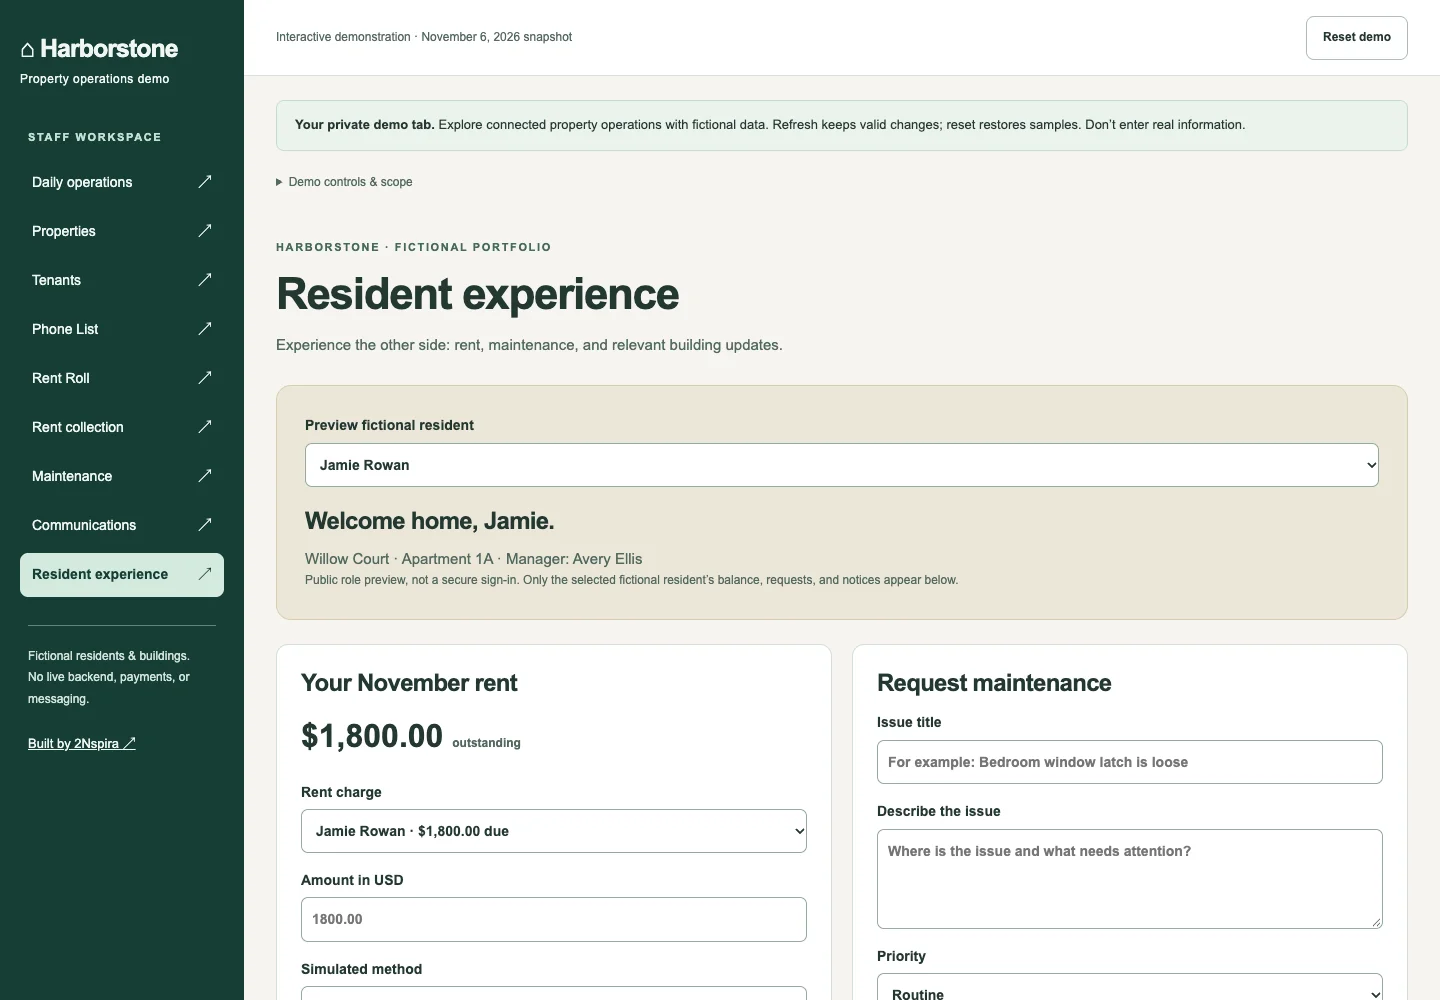
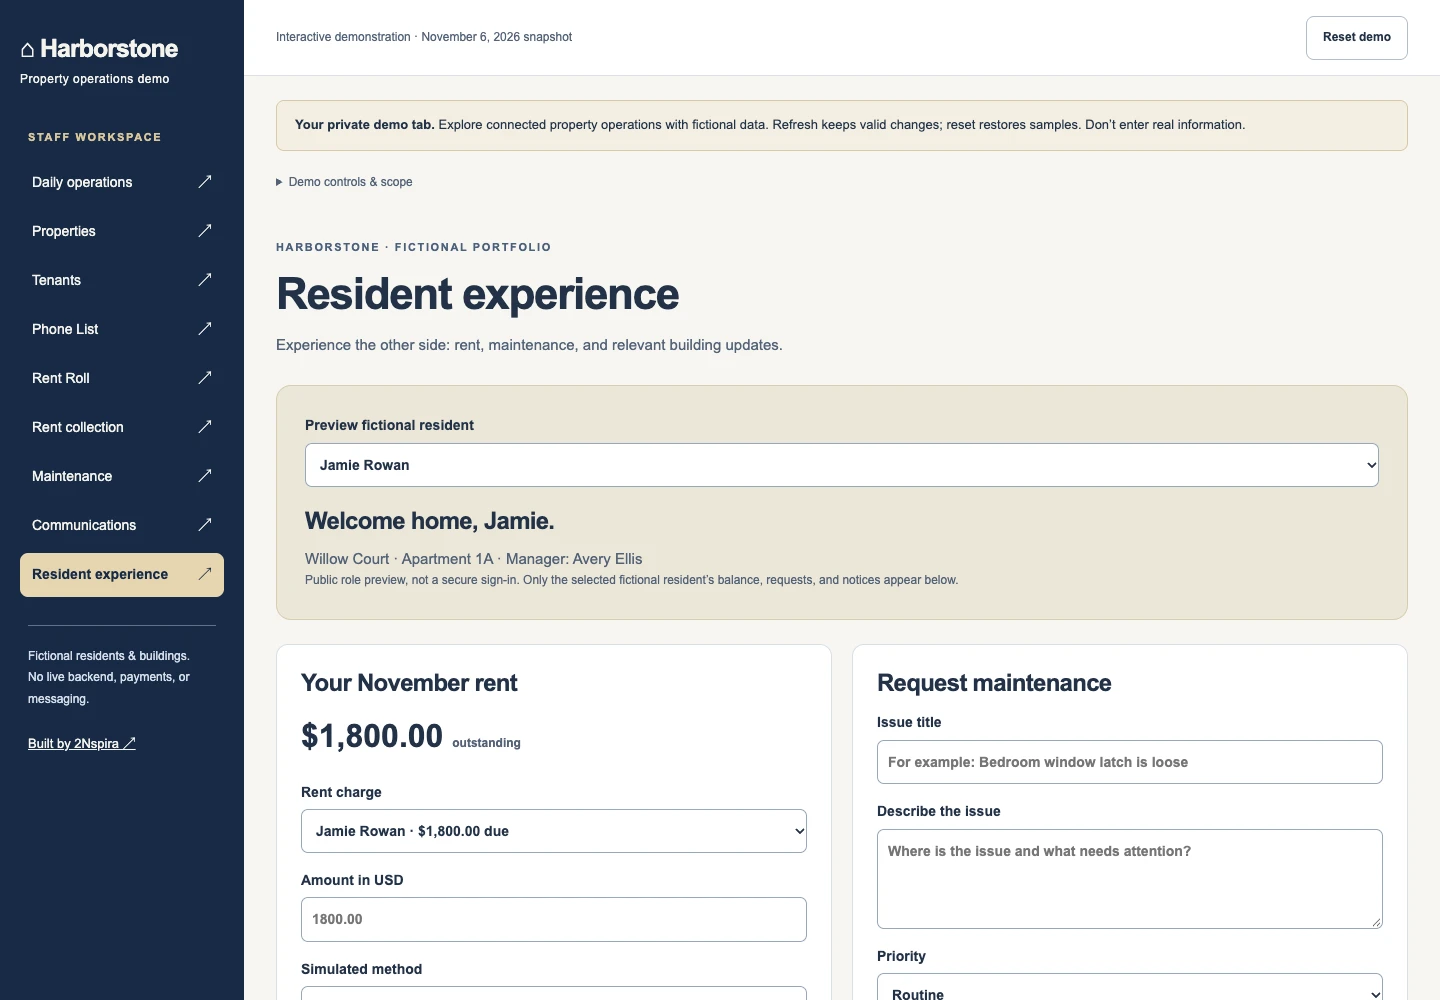
Refine demo identities and add accessible education page effects

diff --git a/2nspira-website/src/components/demos/SchoolVision.tsx b/2nspira-website/src/components/demos/SchoolVision.tsx
@@ -7,7 +7,7 @@ export default function SchoolVision() {
     <div className="mx-auto max-w-6xl px-4 sm:px-6">
       <div className="grid items-center gap-10 lg:grid-cols-2">
         <div><p className={eyebrow}>2Nspira · Connected school</p><h2 id="school-vision" className={`mt-4 ${h2}`}>More than managing school.<br />Make learning visible.</h2><p className="mt-5 leading-8 text-body">The office knows the learner. The teacher knows the next step. The family understands the progress. Explore a school experience built around those connections—not another collection of disconnected tools.</p><p className="mt-4 text-sm leading-7 text-muted">A focused demonstration for independent K–12 schools, with a broader vision shaped around your curriculum, people, and existing systems.</p><a href={EDUCATION_DEMO_URL} className={`mt-7 ${buttonPrimary}`}>Explore Demo <ArrowRight className="ml-2 h-4 w-4" /></a></div>
-        <div className="rounded-3xl border border-line bg-white p-6 shadow-sm sm:p-8">
+        <div data-catalog-card className="rounded-3xl border border-line bg-white p-6 shadow-sm sm:p-8">
           <p className="text-xs font-semibold tracking-widest text-accent">ILLUSTRATIVE LEARNING SNAPSHOT</p><div className="mt-5 flex items-center gap-4"><span className="rounded-2xl bg-accent-soft p-3 text-accent"><Sprout size={28}/></span><div><h3 className="text-xl font-medium text-ink">Small habitats. Big connections.</h3><p className="mt-1 text-sm text-muted">Science 7 · Learning Grove Academy</p></div></div>
           <ol className="mt-7 space-y-0">{[["Plan with purpose", "An inquiry question and clear learning goals."],["Make thinking visible", "Field notes become evidence of learning."],["Close the feedback loop", "Teacher-published feedback reaches the learner and family."]].map(([title,text],i)=><li key={title} className="flex gap-4 border-t border-line py-5"><span className="text-sm font-semibold text-accent">0{i+1}</span><div><h4 className="font-medium text-ink">{title}</h4><p className="mt-1 text-sm leading-6 text-body">{text}</p></div></li>)}</ol><p className="text-xs leading-6 text-muted">Fictional example. The demo connects real local actions; this preview is not live school data.</p>
         </div>

diff --git a/2nspira-website/src/components/demos/DemoDetail.tsx b/2nspira-website/src/components/demos/DemoDetail.tsx
@@ -1,4 +1,5 @@
 import DemoHero from "./DemoHero";
+import CatalogEffects from "@/components/catalog/CatalogEffects";
 import DemoTrust from "./DemoTrust";
 import SchoolVision from "./SchoolVision";
 import ManufacturingVision from "./ManufacturingVision";
@@ -25,6 +26,7 @@ export default function DemoDetail({ kind }: { kind: keyof typeof demos }) {
         href={demo.url}
         steps={["Welcome a learner", "Connect the classroom", "Share progress"]}
       />
+      <CatalogEffects headings>
       {kind === "education" && (
         <section className="border-y border-line bg-canvas-deep py-14">
           <div className="mx-auto max-w-6xl px-4 sm:px-6">
@@ -57,6 +59,7 @@ export default function DemoDetail({ kind }: { kind: keyof typeof demos }) {
                 ],
               ].map(([role, text], i) => (
                 <a
+                  data-catalog-card
                   href={`${demo.url}?role=${role}`}
                   key={role}
                   className={`${cardFlat} block p-6 focus-visible:outline-2 focus-visible:outline-accent ${["!bg-[#fff0d9]", "!bg-[#e0f4ef]", "!bg-[#efe4fa]", "!bg-[#fff1b8]"][i]}`}
@@ -135,7 +138,7 @@ export default function DemoDetail({ kind }: { kind: keyof typeof demos }) {
           </summary>
           <ol className="mt-6 grid gap-7 md:grid-cols-2">
             {demo.steps.map(([title, text], i) => (
-              <li key={title} className="flex gap-5">
+              <li data-catalog-reveal key={title} className="flex gap-5">
                 <span className="flex h-10 w-10 shrink-0 items-center justify-center rounded-full bg-accent-soft text-sm font-semibold text-accent">
                   {i + 1}
                 </span>
@@ -164,6 +167,7 @@ export default function DemoDetail({ kind }: { kind: keyof typeof demos }) {
         </div>
       </section>
       <DemoTrust />
+      </CatalogEffects>
     </main>
   );
 }

diff --git a/2nspira-website/src/components/engagement/DemoCollection.tsx b/2nspira-website/src/components/engagement/DemoCollection.tsx
@@ -48,7 +48,7 @@ return <><div className={styles.filters} role="group" aria-label="Choose a demo 
             >
               <Link
                 href={`/demos/${d.slug}`}
-                className={`block min-w-0 border-b border-line p-4 focus-visible:outline-2 focus-visible:outline-accent sm:p-6 lg:border-b-0 ${({education:"bg-[#eee7f6]",manufacturing:"bg-[#e0eee6]","property-management":"bg-[#f0e9da]"})[d.slug]}`}
+                className={`block min-w-0 border-b border-line p-4 focus-visible:outline-2 focus-visible:outline-accent sm:p-6 lg:border-b-0 ${({education:"bg-[#e4eef8]",manufacturing:"bg-[#e0eee6]","property-management":"bg-[#e5eaf2]"})[d.slug]}`}
                 aria-label={`Discover the ${d.category} experience`}
               >
                 <Image

diff --git a/2nspira-website/src/app/demos/property-management/page.tsx b/2nspira-website/src/app/demos/property-management/page.tsx
@@ -70,7 +70,7 @@ export default function PropertyDemoPage() {
               <a
                 href={`${PROPERTY_DEMO_URL}${path}/`}
                 key={path}
-                className={`rounded-2xl border border-line p-7 focus-visible:outline-2 focus-visible:outline-accent ${["bg-[#e0f1e8]", "bg-[#fff0d9]", "bg-[#e9e5f5]", "bg-[#fff3ce]"][i]}`}
+                className={`rounded-2xl border border-line p-7 focus-visible:outline-2 focus-visible:outline-accent ${["bg-[#e5eaf2]", "bg-[#f3ecde]", "bg-[#e9edf5]", "bg-[#f7efdc]"][i]}`}
               >
                 <h3 className="text-xl font-medium text-ink">
                   {title} <span aria-hidden="true">↗</span>

diff --git a/2nspira-website/src/components/demos/SchoolModules.tsx b/2nspira-website/src/components/demos/SchoolModules.tsx
@@ -151,6 +151,7 @@ export default function SchoolModules() {
         <div className="mt-12 grid items-start gap-6 lg:grid-cols-3">
           {groups.map(({ title, icon: Icon, description, modules }) => (
             <article
+              data-catalog-card
               key={title}
               className="overflow-hidden rounded-3xl border border-line"
             >

diff --git a/2nspira-website/docs/qa/demo-visual-polish-2026-11-16.md b/2nspira-website/docs/qa/demo-visual-polish-2026-11-16.md
@@ -1,0 +1,10 @@
+# Demo visual polish — 2026-11-16
+
+Requested by Jeffrey alongside the AI carousel additions:
+- Property Management: replace green with premium navy/warm gold. The standalone fictional demo owns its palette and workflow QA; matching current desktop workspace/resident screenshots replace the old website images. Property showcase module backgrounds and collection surround use slate/ivory/gold tones.
+- Demo collection: Education preview surround changes from lavender/pink to soft sky blue (#e4eef8); Manufacturing green remains unchanged.
+- Education landing: reuse CatalogEffects (no new dependencies) for once-only heading/card entrance effects and hover/focus depth on four role cards, the learning snapshot and three module groups. Retain the existing restrained hero entrance. Keyboard focus cancels active entrances; reduced motion is static and content is server-rendered without JavaScript.
+
+Local QA: canonical lint/build:ci/Worker smoke/typecheck; 320/390/768/1440 rendered layouts, image decoding, collection filter/refresh, disclosures and reduced-motion checks. Observed Web Animations entrance calls and hover transform; axe WCAG A/AA checks pass. No-JavaScript headings/cards remain visible. Desktop/mobile screenshots reviewed. Standalone property demo: npm run verify and all 70 existing browser checks pass (9 routes, responsive/a11y, connected workflows, retry/duplicate submission, persistence/recovery, privacy boundaries).
+
+No fabricated results, real contacts, payment/email integrations, new persistence models or dependencies. Runtime/deployment verification remains a separate release gate recorded in the PR.
